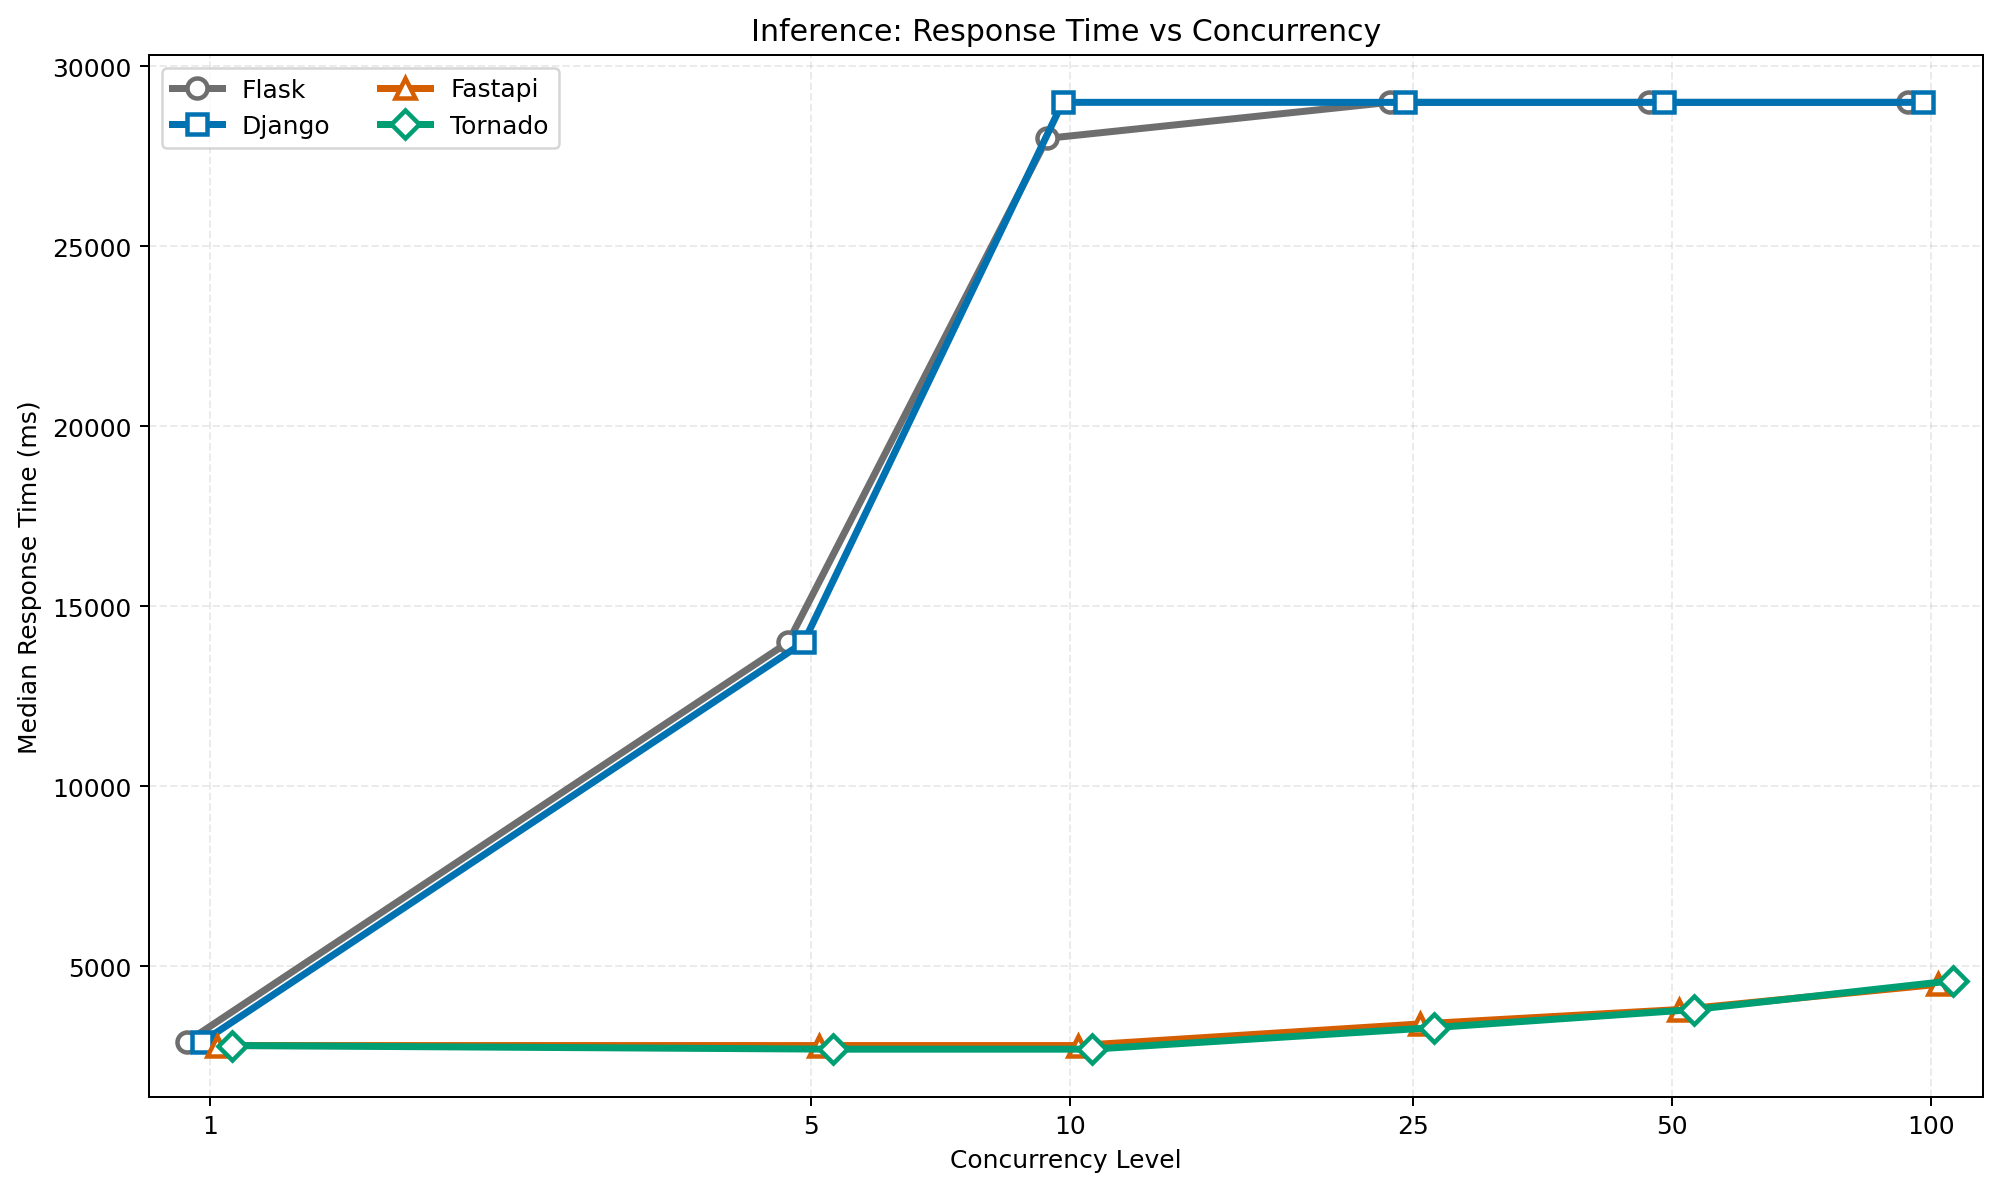
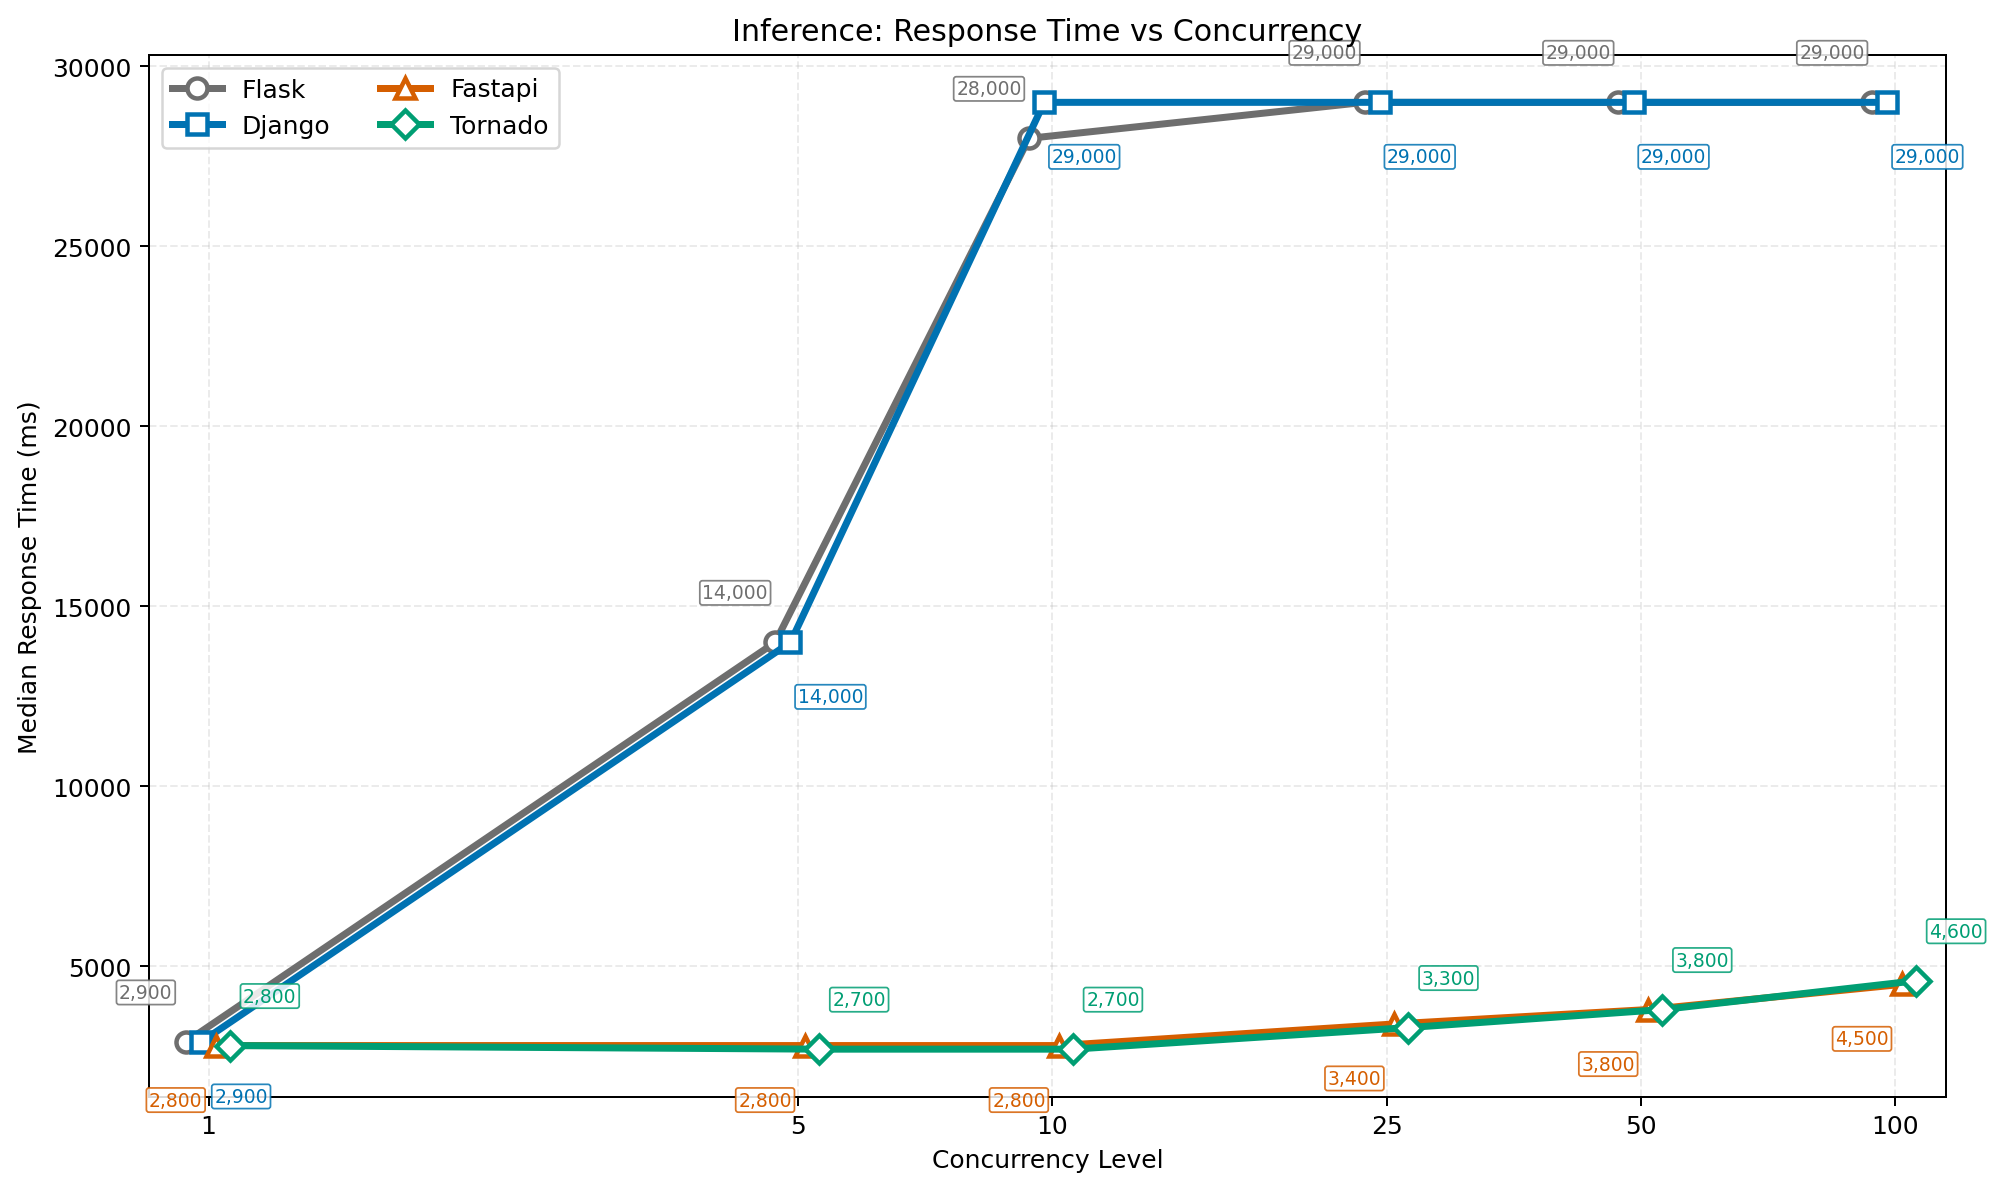
feat: Add value labels to charts per thesis committee request
The thesis committee asked to add numbering on the charts, so updated the aggregate_data script to format and display values directly on the plots without overlapping.

diff --git a/scripts/aggregate_data.py b/scripts/aggregate_data.py
@@ -533,6 +533,13 @@ def generate_charts(locust_data, resource_data, stream_data, pipeline_data):
         "fastapi": 4,
         "tornado": 5,
     }
+    label_offsets = {
+        # (x offset in points, y offset in points)
+        "flask": (-16, 16),
+        "django": (16, -18),
+        "fastapi": (-16, -18),
+        "tornado": (16, 16),
+    }
     line_width = 2.8
     marker_size = 8.0
     marker_edge_width = 1.8
@@ -552,7 +559,41 @@ def generate_charts(locust_data, resource_data, stream_data, pipeline_data):
         ax.set_xticklabels(CONCURRENCY_LEVELS)
         ax.set_xlim(min(CONCURRENCY_LEVELS) * 0.85, max(CONCURRENCY_LEVELS) * 1.15)
 
-    def plot_framework_lines(ax, records, endpoint, value_key):
+    def annotate_points(ax, x_values, y_values, color, value_fmt="{:.2f}", x_offset=0, y_offset=7):
+        """Annotate each plotted point with its numeric value."""
+        for x_val, y_val in zip(x_values, y_values):
+            if y_val is None:
+                continue
+            va = "bottom" if y_offset >= 0 else "top"
+            ax.annotate(
+                value_fmt.format(y_val),
+                xy=(x_val, y_val),
+                xytext=(x_offset, y_offset),
+                textcoords="offset points",
+                ha="center",
+                va=va,
+                fontsize=7.5,
+                color=color,
+                bbox=dict(boxstyle="round,pad=0.14", fc="white", ec=color, lw=0.7, alpha=0.85),
+            )
+
+    def annotate_bars(ax, bar_container, value_fmt="{:.2f}"):
+        """Annotate grouped bars with values above each bar."""
+        for bar in bar_container:
+            height = bar.get_height()
+            ax.annotate(
+                value_fmt.format(height),
+                xy=(bar.get_x() + bar.get_width() / 2, height),
+                xytext=(0, 3),
+                textcoords="offset points",
+                ha="center",
+                va="bottom",
+                fontsize=6.8,
+                color="#111827",
+                rotation=90,
+            )
+
+    def plot_framework_lines(ax, records, endpoint, value_key, value_fmt="{:.2f}"):
         for fw in FRAMEWORKS:
             fw_data = sorted(
                 [r for r in records if r["framework"] == fw and r["endpoint"] == endpoint],
@@ -576,10 +617,12 @@ def generate_charts(locust_data, resource_data, stream_data, pipeline_data):
                     alpha=1.0,
                     zorder=framework_zorder[fw],
                 )
+                x_off, y_off = label_offsets[fw]
+                annotate_points(ax, x, y, colors[fw], value_fmt=value_fmt, x_offset=x_off, y_offset=y_off)
 
     # --- Chart 1: Response Time vs Concurrency (Inference) ---
     fig, ax = plt.subplots(figsize=(11, 6.5), constrained_layout=True)
-    plot_framework_lines(ax, locust_data, "inference", "response_time_median_ms")
+    plot_framework_lines(ax, locust_data, "inference", "response_time_median_ms", value_fmt="{:,.0f}")
     style_framework_axes(ax, "Inference: Response Time vs Concurrency", "Median Response Time (ms)")
     plt.savefig(os.path.join(CHARTS_DIR, "response_time_inference.png"), dpi=180, bbox_inches="tight")
     plt.close()
@@ -595,7 +638,7 @@ def generate_charts(locust_data, resource_data, stream_data, pipeline_data):
 
     # --- Chart 3: Response Time vs Concurrency (Stream) ---
     fig, ax = plt.subplots(figsize=(11, 6.5), constrained_layout=True)
-    plot_framework_lines(ax, locust_data, "stream", "response_time_median_ms")
+    plot_framework_lines(ax, locust_data, "stream", "response_time_median_ms", value_fmt="{:,.0f}")
     style_framework_axes(ax, "Streaming: Response Time vs Concurrency", "Median Response Time (ms)")
     plt.savefig(os.path.join(CHARTS_DIR, "response_time_stream.png"), dpi=180, bbox_inches="tight")
     plt.close()
@@ -611,7 +654,7 @@ def generate_charts(locust_data, resource_data, stream_data, pipeline_data):
 
     # --- Chart 5: Pipeline E2E Latency ---
     fig, ax = plt.subplots(figsize=(11, 6.5), constrained_layout=True)
-    plot_framework_lines(ax, locust_data, "pipeline", "response_time_median_ms")
+    plot_framework_lines(ax, locust_data, "pipeline", "response_time_median_ms", value_fmt="{:,.0f}")
     style_framework_axes(ax, "Pipeline: Response Time vs Concurrency", "Median Response Time (ms)")
     plt.savefig(os.path.join(CHARTS_DIR, "response_time_pipeline.png"), dpi=180, bbox_inches="tight")
     plt.close()
@@ -651,6 +694,8 @@ def generate_charts(locust_data, resource_data, stream_data, pipeline_data):
                     alpha=1.0,
                     zorder=framework_zorder[fw],
                 )
+                x_off, y_off = label_offsets[fw]
+                annotate_points(ax, x, y, colors[fw], value_fmt="{:.1f}", x_offset=x_off, y_offset=y_off)
         style_framework_axes(
             ax,
             "Pipeline: Stage 2 Retrieval Delay vs Concurrency",
@@ -685,6 +730,8 @@ def generate_charts(locust_data, resource_data, stream_data, pipeline_data):
                 alpha=1.0,
                 zorder=framework_zorder[fw],
             )
+            x_off, y_off = label_offsets[fw]
+            annotate_points(ax, x, y, colors[fw], value_fmt="{:.1f}", x_offset=x_off, y_offset=y_off)
     style_framework_axes(ax, "Inference: Peak Memory vs Concurrency", "Peak Memory RSS (MB)")
     plt.savefig(os.path.join(CHARTS_DIR, "memory_inference.png"), dpi=180, bbox_inches="tight")
     plt.close()
@@ -716,6 +763,8 @@ def generate_charts(locust_data, resource_data, stream_data, pipeline_data):
                     alpha=1.0,
                     zorder=framework_zorder[fw],
                 )
+                x_off, y_off = label_offsets[fw]
+                annotate_points(ax, x, y, colors[fw], value_fmt="{:,.0f}", x_offset=x_off, y_offset=y_off)
         style_framework_axes(ax, "Streaming: Time to First Token vs Concurrency", "TTFT Median (ms)")
         plt.savefig(os.path.join(CHARTS_DIR, "ttft_comparison.png"), dpi=180, bbox_inches="tight")
         plt.close()
@@ -733,7 +782,8 @@ def generate_charts(locust_data, resource_data, stream_data, pipeline_data):
             if fw_data:
                 y = [r["throughput_median_rps"] for r in fw_data]
                 positions = [x + fw_idx * bar_width for x in x_positions]
-                ax.bar(positions, y, bar_width, label=fw.capitalize(), color=colors[fw])
+                bars = ax.bar(positions, y, bar_width, label=fw.capitalize(), color=colors[fw])
+                annotate_bars(ax, bars)
 
         ax.set_xlabel("Concurrency Level")
         ax.set_ylabel("Throughput (req/s)")
